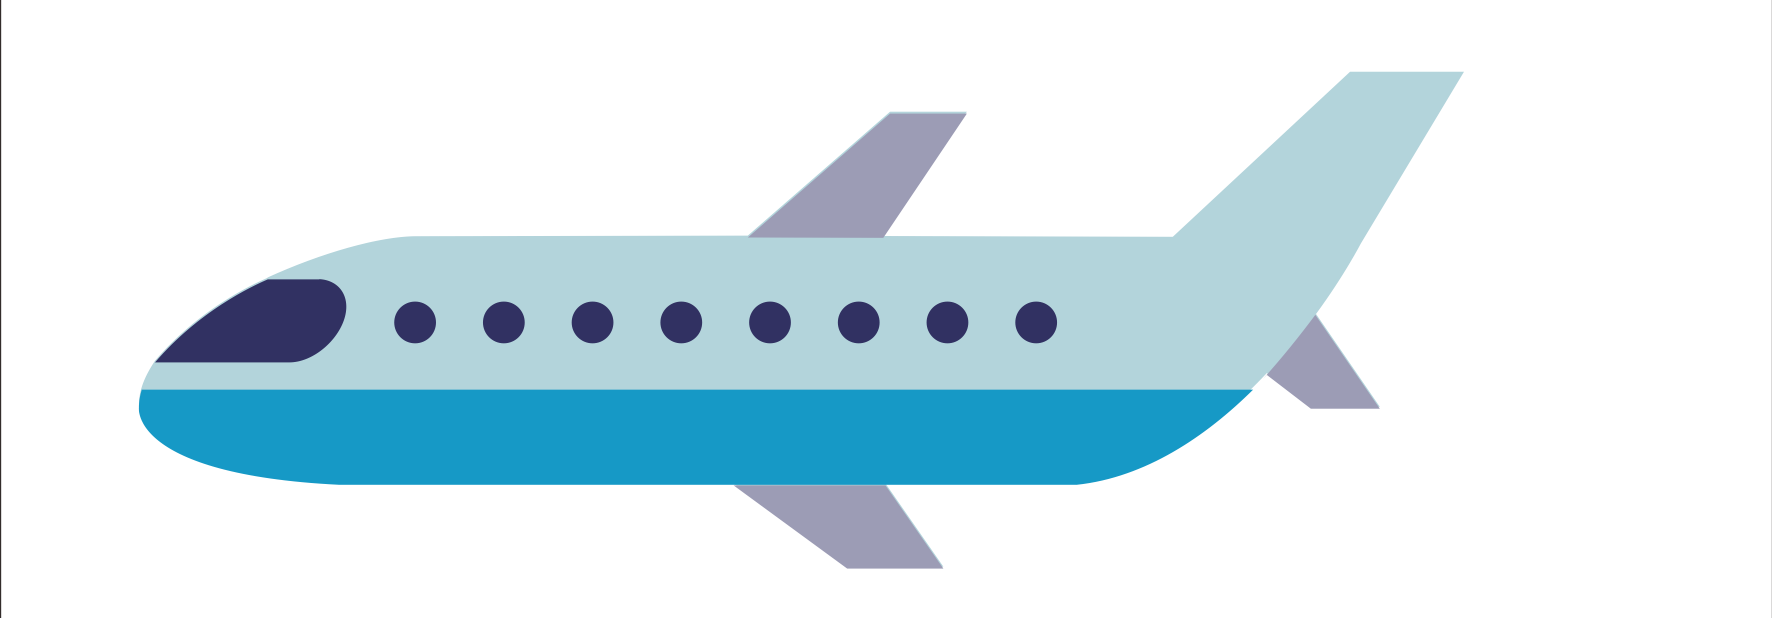
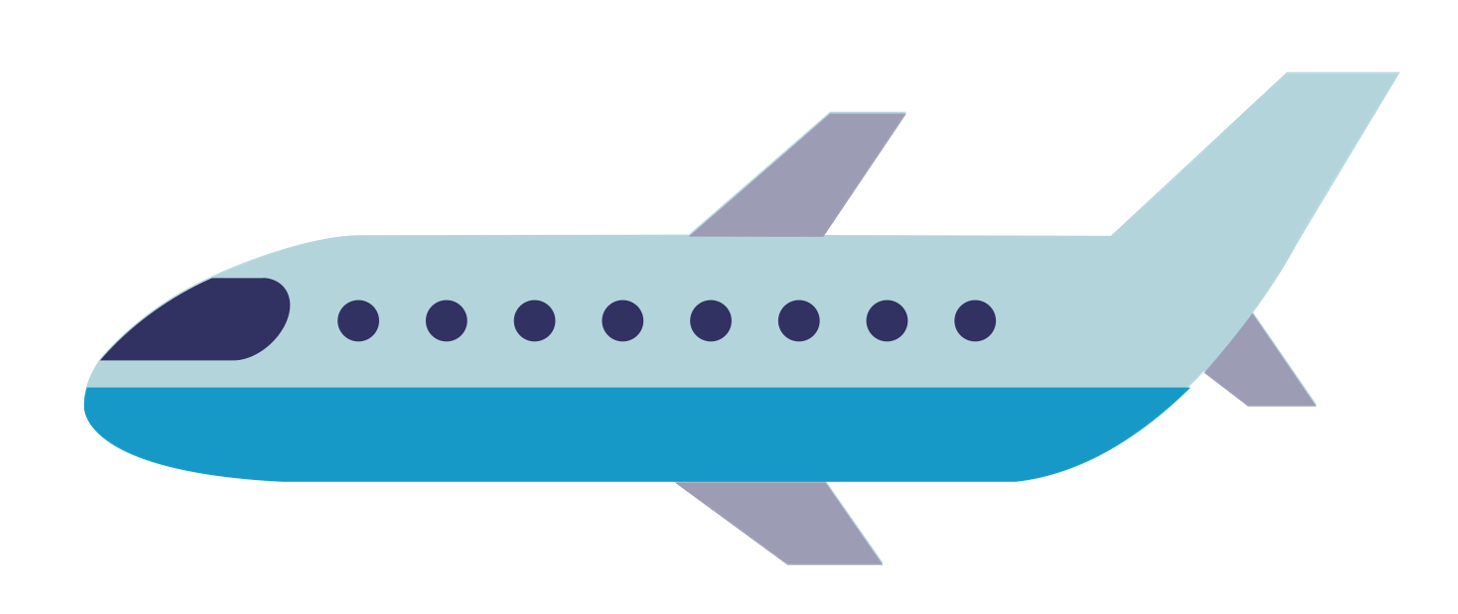
Corrección animación titulo_destino

diff --git a/css/estilo.css b/css/estilo.css
@@ -1,3 +1,27 @@
+.cabecera {
+	position: static;
+}
+
+.titulo_destino {
+	display: flex;
+	flex-direction: row;
+	gap: 25px;
+	justify-content: center;
+	align-items: center;
+	margin: 60px 0px;
+}
+
+.imagen_a {
+	z-index: 3;
+	width: 15%;
+	position:absolute;
+}
+
+.titulo {
+	z-index: 2;
+	position:absolute;
+}
+
 .imagenes-portada {
 	width: 100%;
 	height: 600px;
@@ -82,6 +106,7 @@
 	position: sticky;
 	top: 15%;
 	border: 1px solid black;
+	font-weight: bold;
 }
 
 .reservas-primero>div {
@@ -121,13 +146,15 @@
 
 
 .reservas-primero #reserva {
-	background-color: rgba(1,162,204,0.50);
-	border: 4px solid rgba(1,162,204,1.00);
+	background-color: rgba(1, 162, 204, 0.50);
+	border: 4px solid rgba(1, 162, 204, 1.00);
+	color:black;
 }
 
 .reservas-primero #privado {
-
 	background-color: #00BD35;
+	border: 4px solid #008024;
+	color:white;
 }
 
 

diff --git a/html/pruebas.html b/html/pruebas.html
@@ -14,23 +14,6 @@
 		integrity="sha512-z4OUqw38qNLpn1libAN9BsoDx6nbNFio5lA6CuTp9NlK83b89hgyCVq+N5FdBJptINztxn1Z3SaKSKUS5UP60Q=="
 		crossorigin="anonymous" referrerpolicy="no-referrer"></script>
 
-	<style>
-		.titulo_destino {
-			display: flex;
-			flex-direction: row;
-			gap: 25px;
-			justify-content: center;
-			align-items: center;
-		}
-
-		.imagen_a {
-			z-index: 3;
-		}
-
-		.titulo {
-			z-index: 2;
-		}
-	</style>
 </head>
 
 <body>
@@ -59,7 +42,7 @@
 			</div>
 		</div>
 		<div class="titulo_destino">
-			<img src="../img/avion.png" class="imagen_a" style="width: 15%;">
+			<img src="../img/avion.png" class="imagen_a" style="transform: scaleX(-1);">
 			<h1 class="titulo">Titulo del destino</h1>
 		</div>
 		<div class="imagenes-portada">

diff --git a/js/titulo_destino.js b/js/titulo_destino.js
@@ -4,9 +4,17 @@ document.addEventListener("DOMContentLoaded", function() {
 	anime({
 		targets: '.imagen_a',
 		opacity: [0.5, 1],
-		translateX: [-100, 600],
+		translateX: [250, -250],
 		easing: "easeOutExpo",
-		duration: 2700
+		duration: 2700,
+		complete: function() {
+			anime({
+				targets: '.imagen_a',
+				rotateY: '180deg', 
+				easing: "easeOutExpo",
+				duration: 1000
+			});
+		}
 	});
 	anime({
 		targets: '.letter',

diff --git a/css/estilo_tours.css b/css/estilo_tours.css
@@ -4,12 +4,9 @@
   top: 0;
 
 }
-
 .cabecera-tours {
   position: static;
 }
-
-
 
 .portada-tours-primero {
   width: 100%;
@@ -19,8 +16,6 @@
   background-size: cover;
   background-attachment: fixed;
   padding-top: 10%;
-
-
 }
 
 .portada-tours-primero p {
